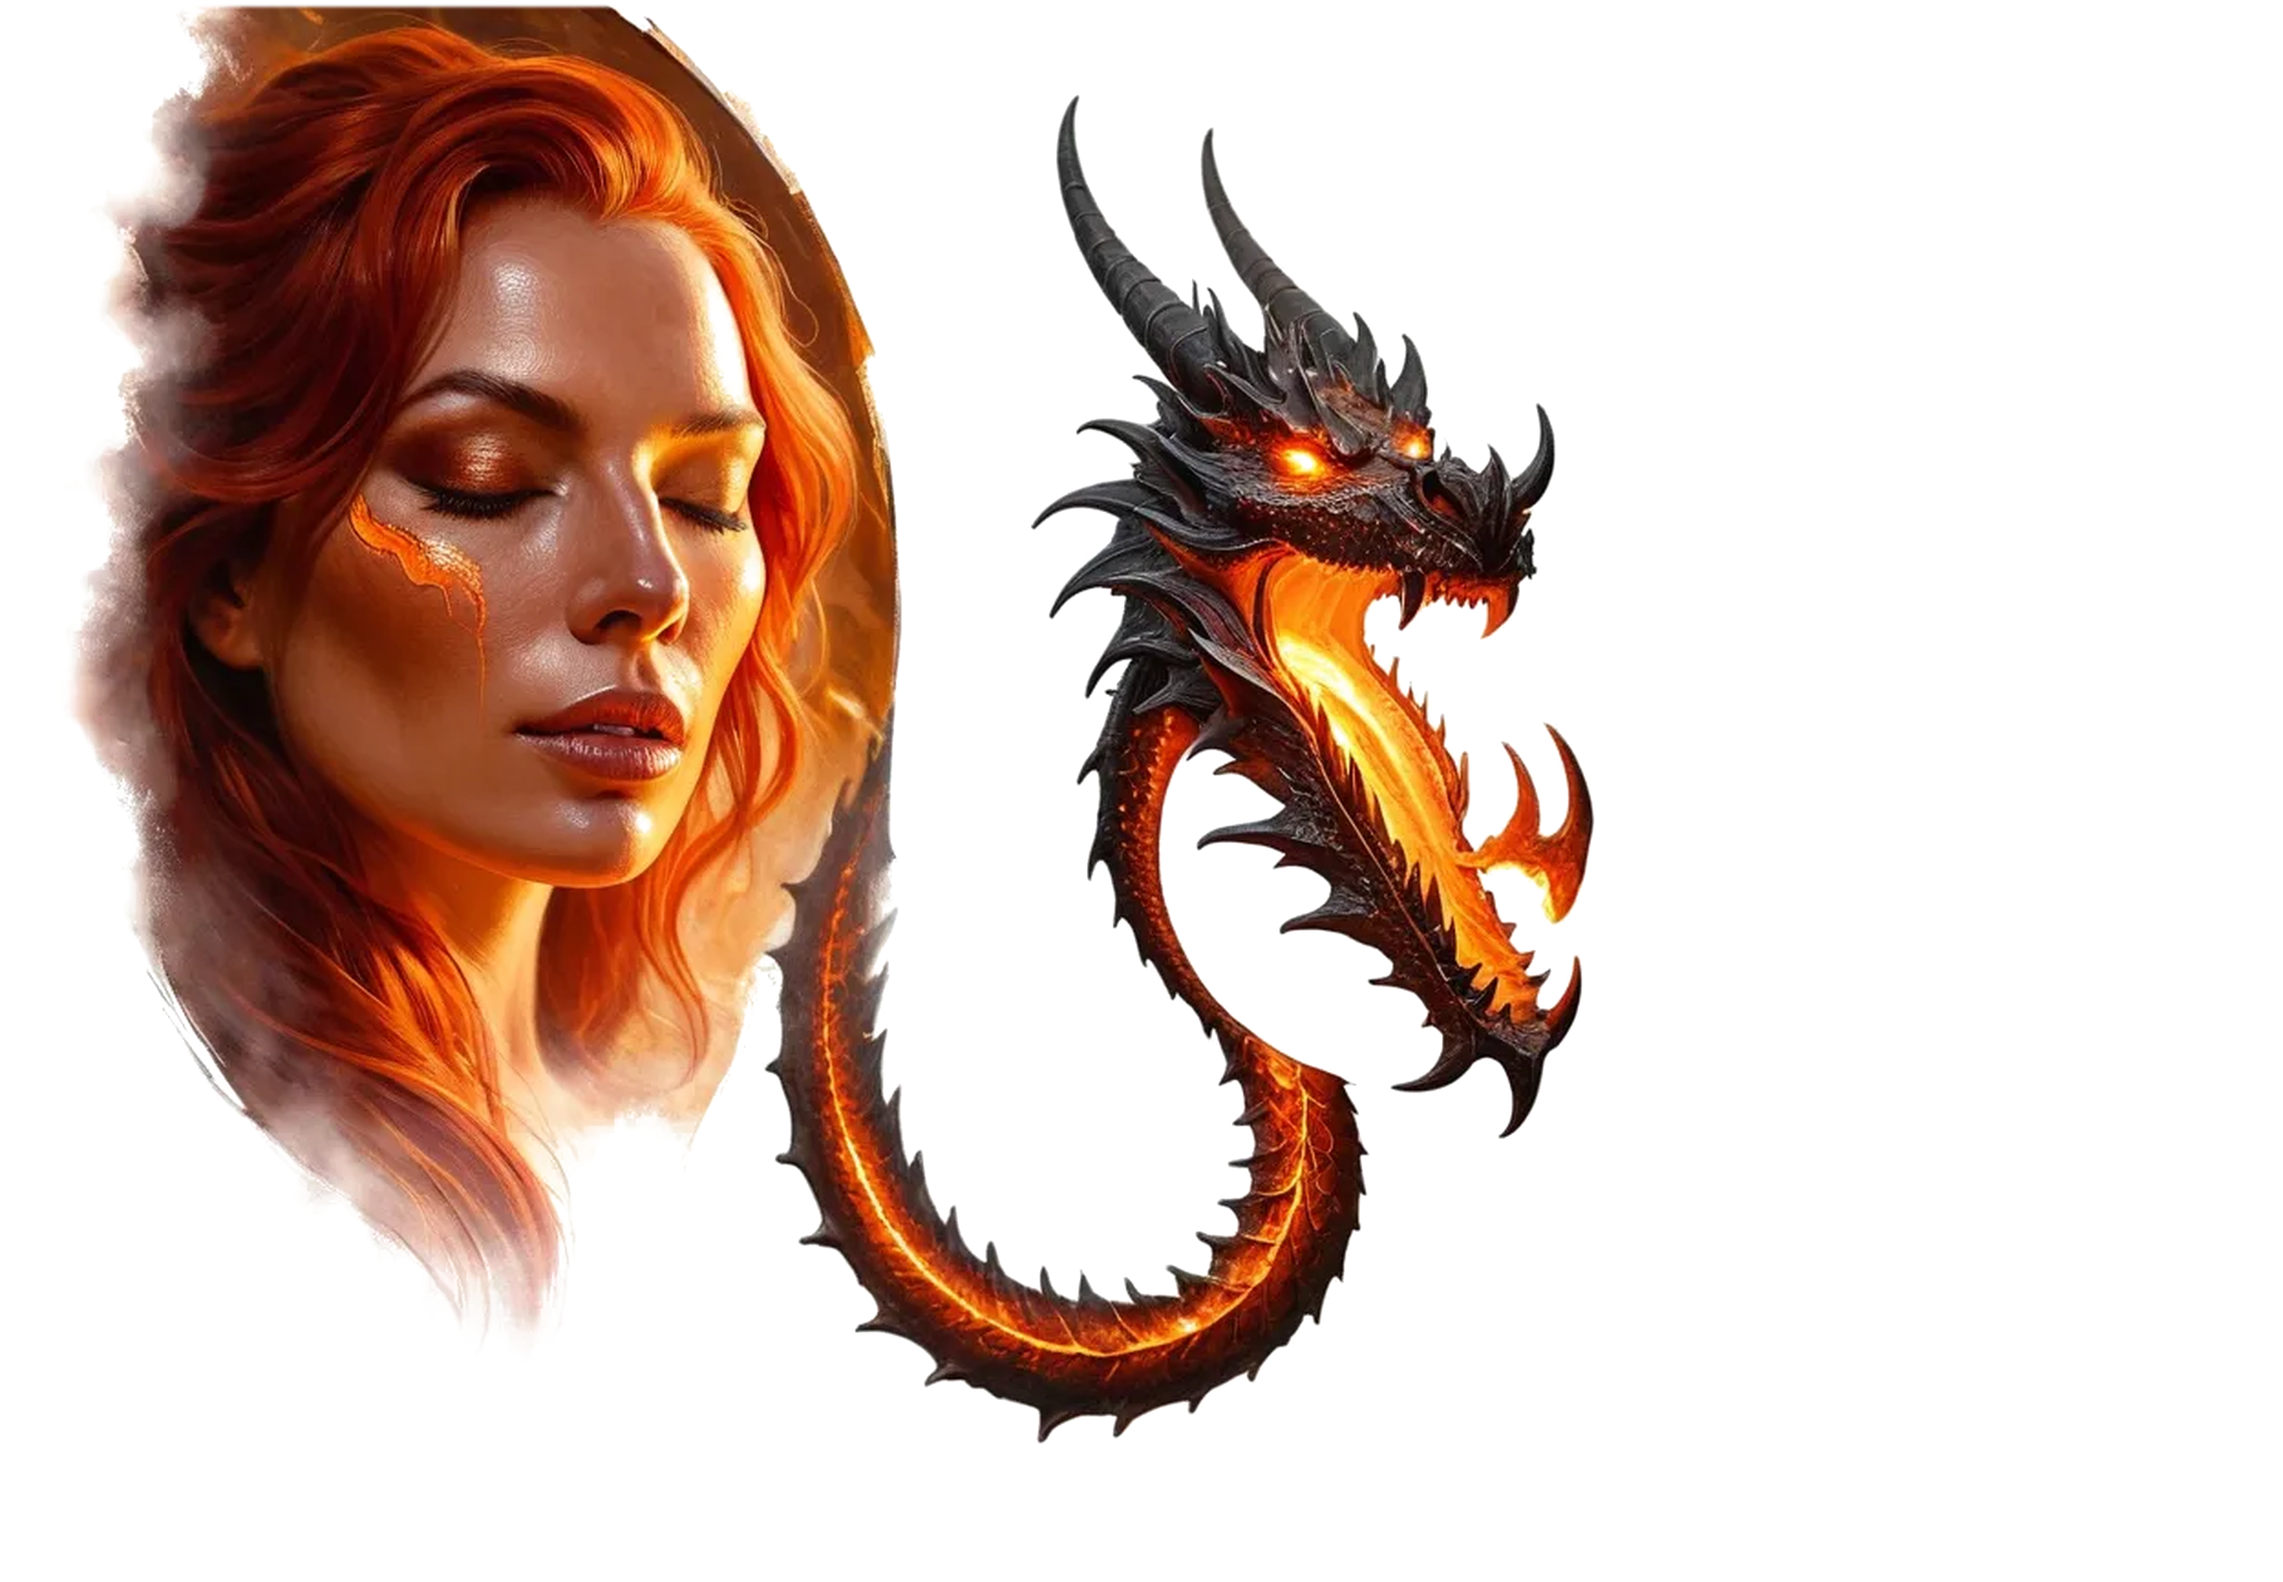
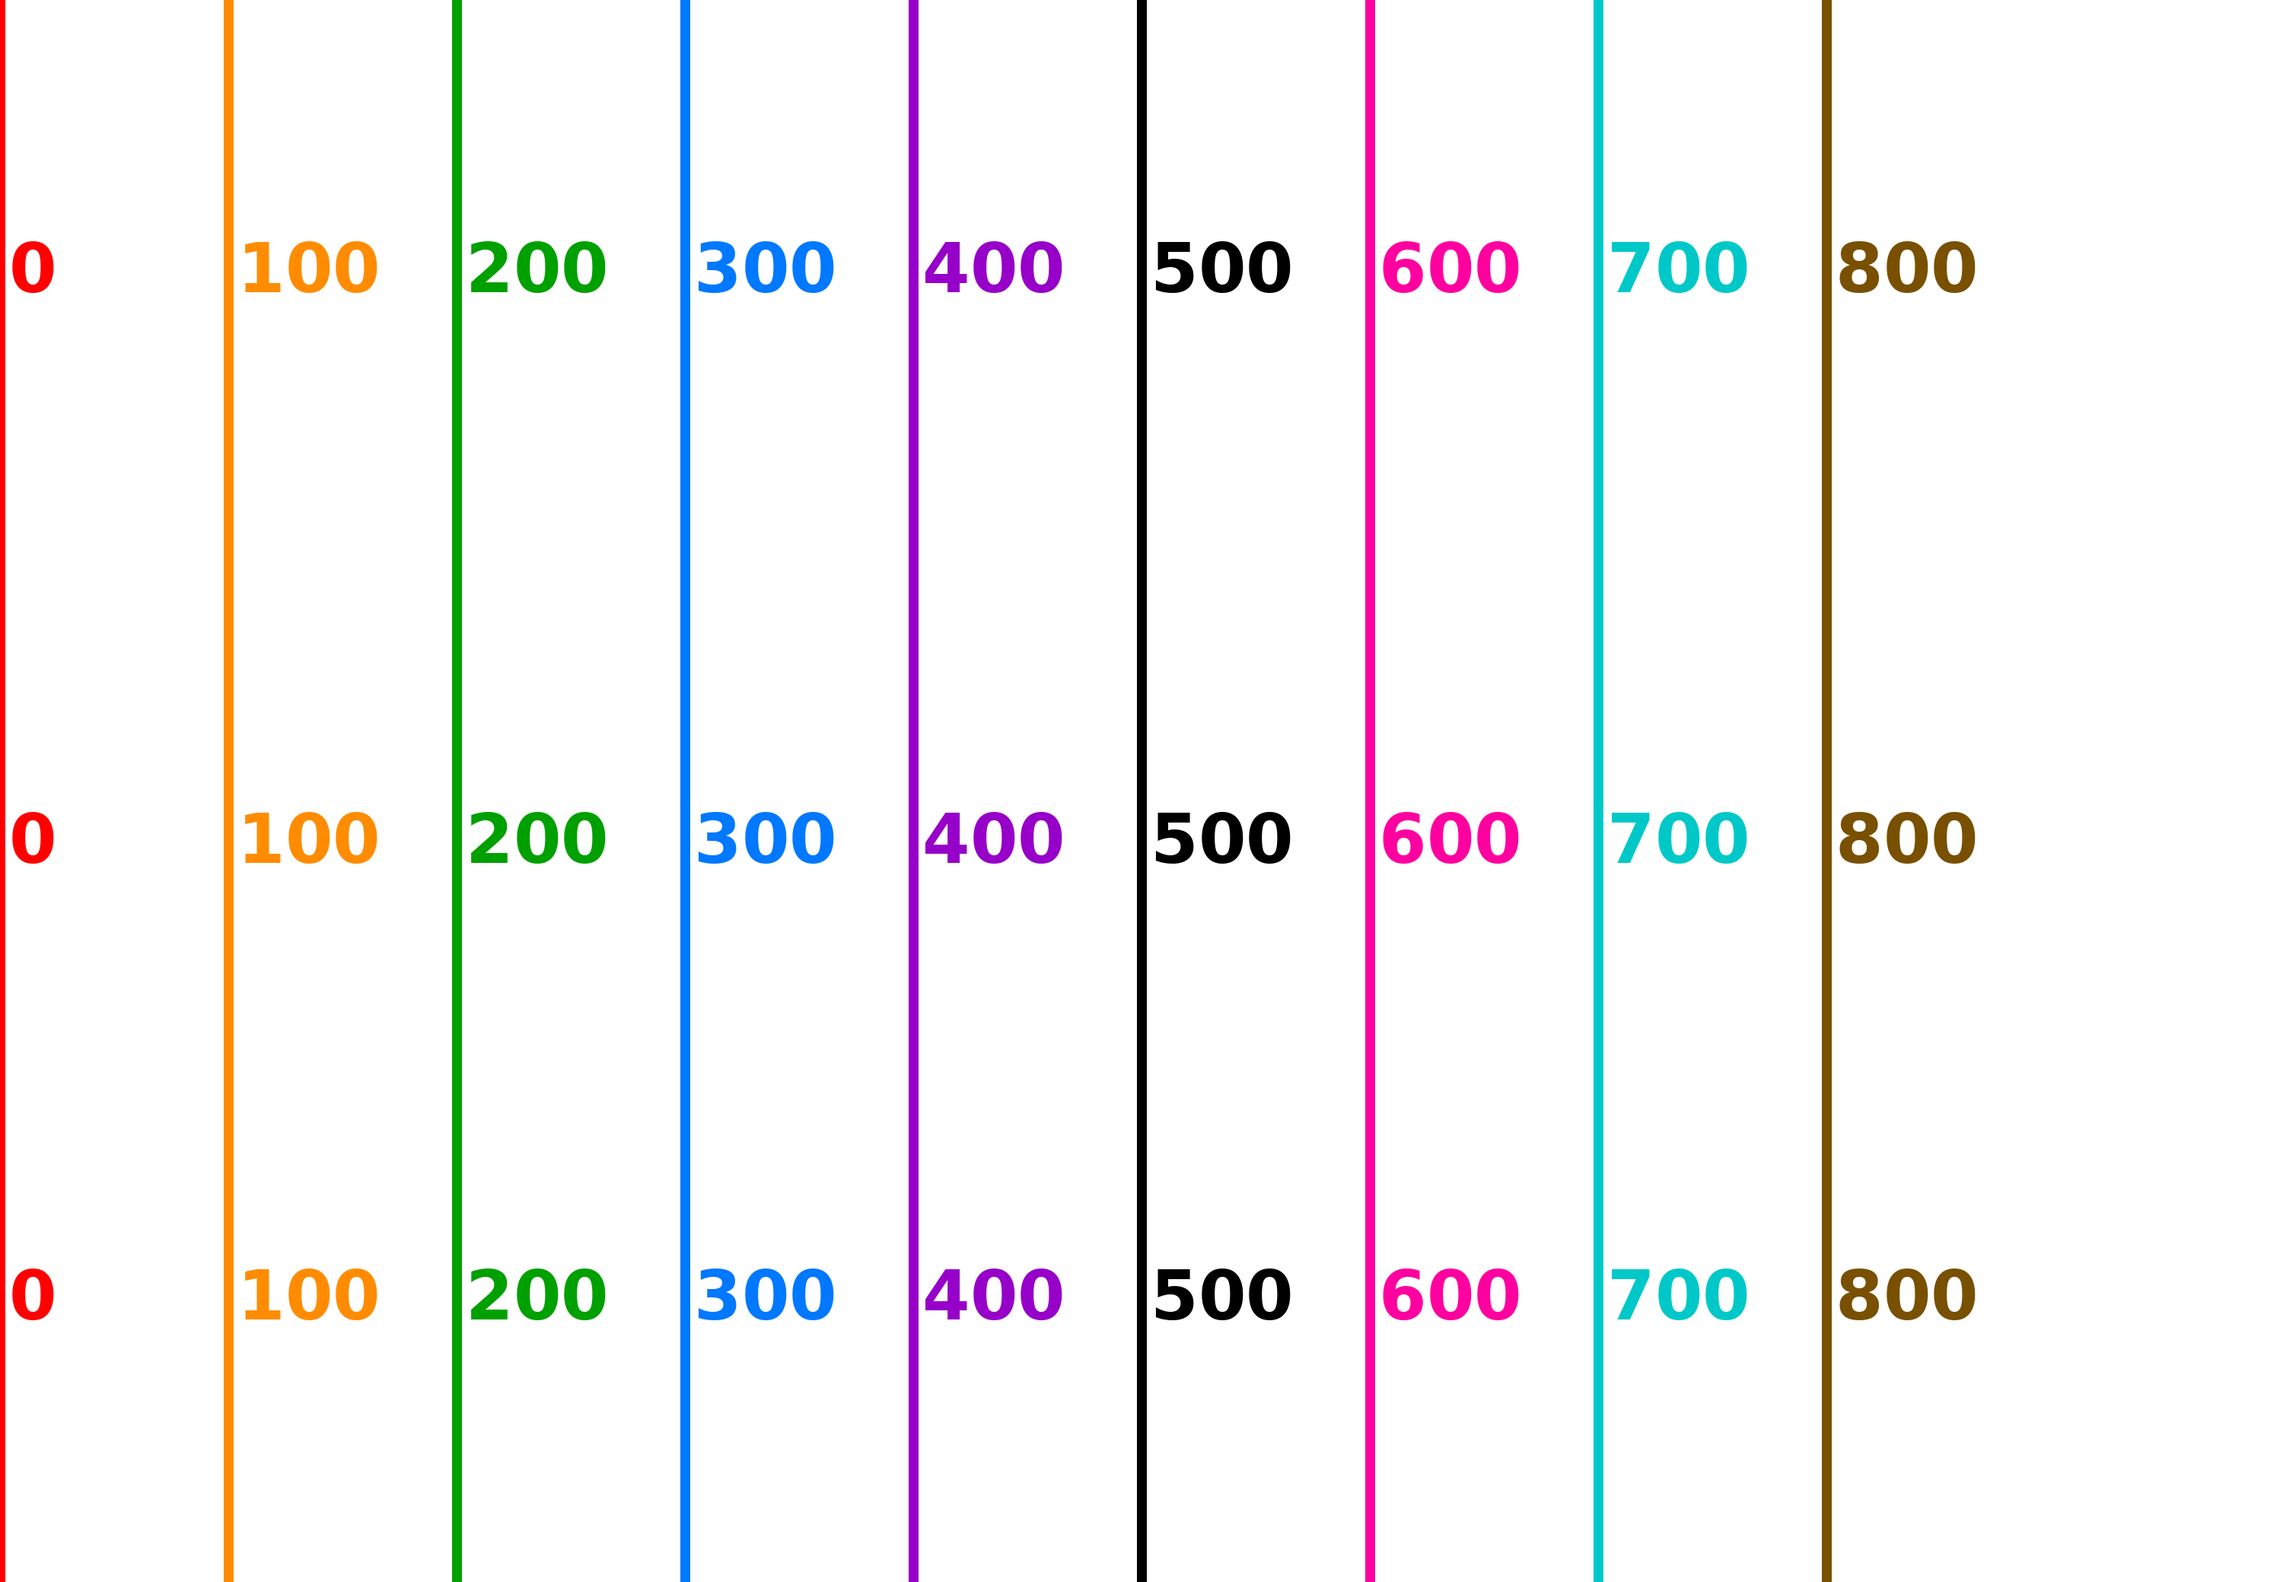
Tutu: around-the-torso canvas uses the torso's centre as its axis (even scale on chest and back)
Claude-Session: https://claude.ai/code/session_01SVnjTQfE8Du7CnCgFi8Pj9

diff --git a/tutu/web/src/main.ts b/tutu/web/src/main.ts
@@ -588,7 +588,14 @@ function groupedForSelection(faces: number[], mesh: { positions: ArrayLike<numbe
   if (canvasMode === "wrap") {
     // One canvas around the body's vertical axis, cut along the left side: chest, right side
     // and back form one continuous surface for a single composition.
-    const c = boneHeads["spine_02"] ?? [0, 0, 0];
+    // The axis goes through the middle of the selected surface (not the spine, which lies
+    // near the back), so the chest and the back keep similar scales.
+    const used = new Set<number>();
+    for (const f of faces) for (let k = 0; k < 3; k++) used.add(mesh.indices[3 * f + k]);
+    let cx = 0, cz = 0, cy = 0;
+    for (const v of used) { cx += mesh.positions[3 * v]; cy += mesh.positions[3 * v + 1]; cz += mesh.positions[3 * v + 2]; }
+    const n = Math.max(1, used.size);
+    const c: V3 = [cx / n, cy / n, cz / n];
     specs.push({ label: "Навколо тіла", mapping: { kind: "cylinder", front: [0, 0, 1], seam: Math.PI / 2, path: [[c[0], c[1] - 1, c[2]], [c[0], c[1] + 1, c[2]]] } });
     return { faceGroup, specs };
   }

diff --git a/tutu/server/scripts/example_wrap_guide.py b/tutu/server/scripts/example_wrap_guide.py
@@ -4,9 +4,9 @@ from PIL import Image, ImageDraw, ImageFilter
 I = json.load(open('/tmp/claude-0/e2e/info-wrap.json'))
 W, H = I['size']['width'], I['size']['height']
 D = '/tmp/claude-0/dragon/'
-X1, Y1 = 820, 664                       # area of the canvas used by the body
+X1, Y1 = 820, 717                       # area of the canvas used by the body
 S = 1024/X1                             # guide pixels per unit
-GW, GH = 1024, int(round(Y1*S/64))*64
+GW, GH = 1024, 896
 g = Image.new('RGB', (GW, GH), 'white')
 def paste(img, box, mask):
     x0, y0, x1, y1 = [int(v*S) for v in box]
@@ -16,9 +16,9 @@ def paste(img, box, mask):
 face = Image.open(D+'v3-back-0.webp').convert('RGB')
 w, h = face.size; yy, xx = np.mgrid[0:h, 0:w]
 r = np.hypot((xx/w-0.5)/0.5, (yy/h-0.42)/0.52); m = Image.fromarray((np.clip((1-r)/0.3, 0, 1)*255).astype(np.uint8))
-paste(face, (-40, -10, 330, 620), m)
+paste(face, (28, -6, 372, 580), m)
 # dragon body: from the back of the head over the right shoulder, down around the hair
-body = [(585, 470), (560, 560), (490, 600), (410, 575), (365, 490), (362, 370), (370, 250), (350, 130), (300, 50), (220, 18), (130, 25), (60, 70)]
+body = [(585, 470), (560, 565), (490, 615), (420, 600), (392, 500), (395, 360), (398, 220), (370, 90), (300, 22), (200, 4), (100, 20), (35, 90), (22, 220), (30, 330)]
 def catmull(pts, n=20):
     out = []; P = [pts[0]] + pts + [pts[-1]]
     for i in range(1, len(P)-2):
@@ -63,8 +63,8 @@ head = Image.open(D+'v3-chest-1.webp').convert('RGB')
 a = np.asarray(head.convert('L')); ys, xs = np.where(a < 235)
 head = head.crop((xs.min(), ys.min(), xs.max()+1, ys.max()+1))
 hm = Image.fromarray(((np.asarray(head.convert('L')) < 238)*255).astype(np.uint8)).filter(ImageFilter.GaussianBlur(2))
-hw = 250; hh = hw*head.height/head.width
-paste(head, (448, 36, 448+hw, 36+hh), hm)
+hw = 265; hh = hw*head.height/head.width
+paste(head, (455, 40, 455+hw, 40+hh), hm)
 g.save('/tmp/claude-0/wrap/guide.png')
 # preview with the body outline
 p = g.copy(); dp = ImageDraw.Draw(p)
